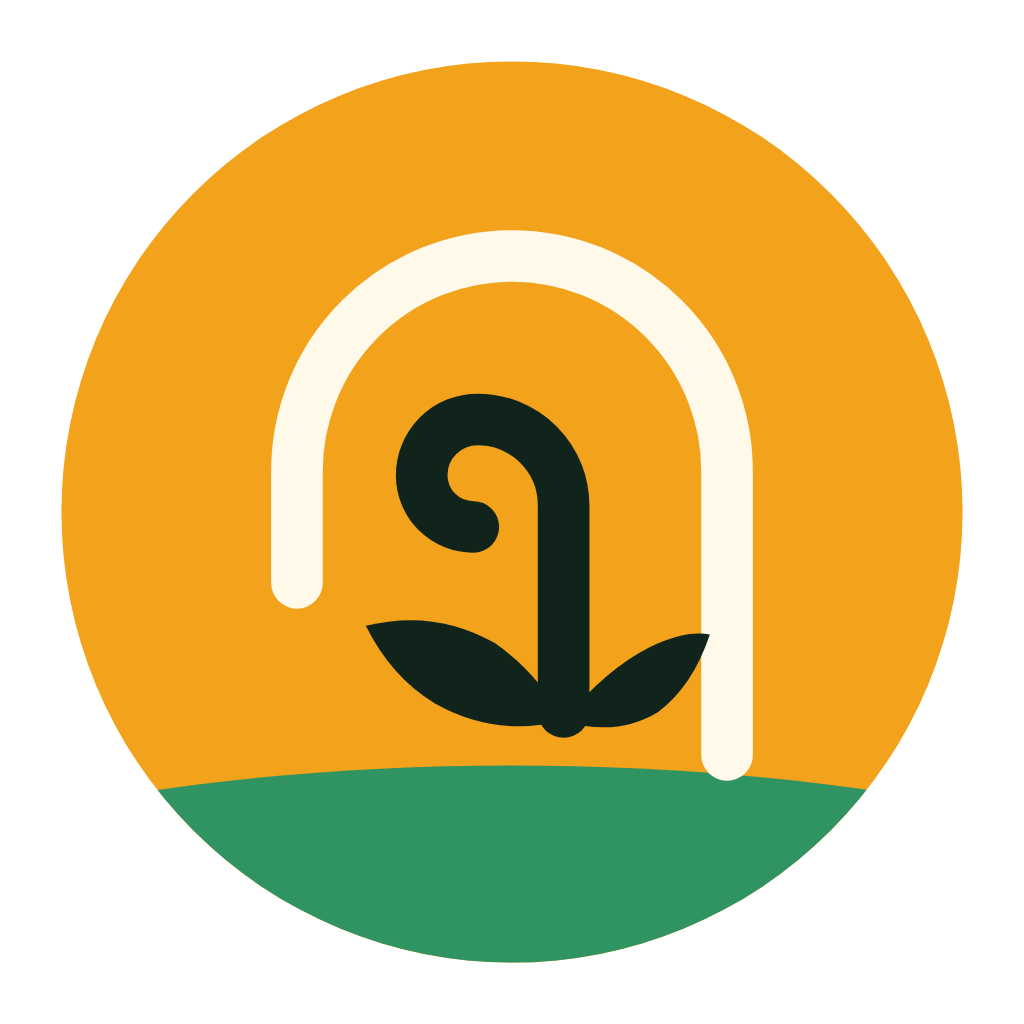
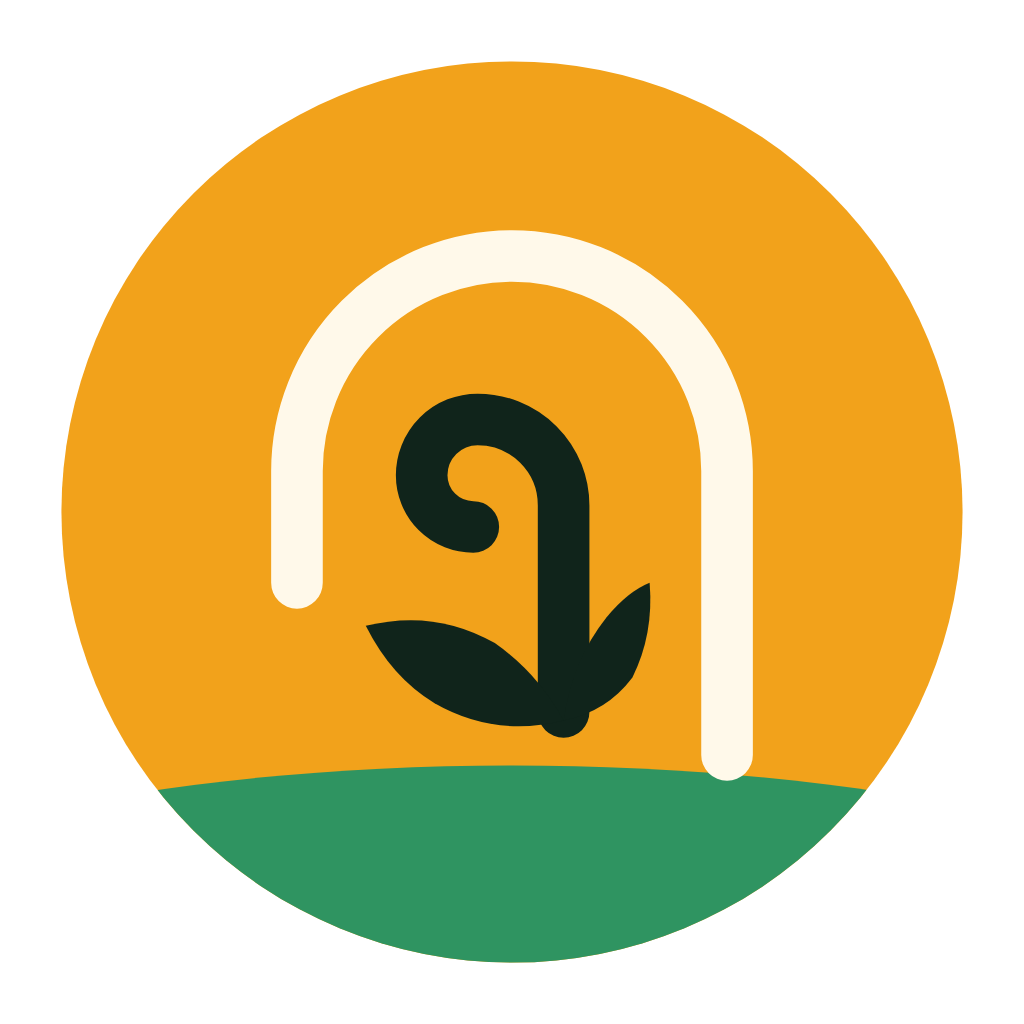
Pull the sprout's right leaf clear of the arch; call yi the monogram
The redrawn right leaf reached x 146, past the arch's inner edge at 144.
It now rises to a tip at x 132, one line width clear. Seal and exports
are regenerated.

Wording: Yidhan stays the product name and 'yi' is its monogram, in the
DECISIONS.md entry, the build script and the board. The entry also
records that YI Home uses a sans-serif 'yi' in its store screenshots
while its icon is a camera outline, and that this is not a trademark
clearance.

Claude-Session: https://claude.ai/code/session_01AdokjEejpZcjBYB6DnAyTV

Changed region(s): [[0.5625, 0.5625, 0.6875, 0.7188]]

diff --git a/images/brand/review/brand-board.html b/images/brand/review/brand-board.html
@@ -222,7 +222,7 @@ button.tg:focus-visible{outline:3px solid var(--marigold);outline-offset:2px}
     <div class="head">
       <span class="eyebrow">Round three · chosen: “yi”</span>
       <h2>An icon from the wordmark</h2>
-      <p>Three reviewers read the sprout as a gardening or wellness app. So the logo is now the wordmark, and the app icon comes from it. A lone i was ruled out: a dotted i on a tile is the standard "information" icon, and the name starts with Y. Each candidate keeps the marigold sun as a dot and uses a heavier cut of Fraunces, which helps at small sizes.</p>
+      <p>Three reviewers read the sprout as a gardening or wellness app. So the logo is now the wordmark, and the app icon is its monogram. Yidhan stays the product name; “yi” is the monogram. A lone i was ruled out: a dotted i on a tile is the standard "information" icon, and the name starts with Y. Each candidate keeps the marigold sun as a dot and uses a heavier cut of Fraunces, which helps at small sizes.</p>
     </div>
     <div class="lock light" style="min-height:150px"><svg viewBox="0 0 6284 2194" style="width:min(360px,80%);height:auto;--ink:#13261D" role="img" aria-label="yidhan wordmark"><use href="#wordmark"/></svg><svg viewBox="0 0 200 200" style="width:72px;height:72px;border-radius:16px"><use href="#yi_icon"/></svg></div>
     <div class="grid g3">

diff --git a/scripts/brand/brand.py b/scripts/brand/brand.py
@@ -25,7 +25,7 @@ word = lambda ink: f'<path fill="{ink}" d="{wm["d"]}"/><circle fill="{SUN}" cx="
 w('wordmark.svg', svg(vb, word(INK), 'Yidhan wordmark: Fraunces (SIL OFL) outlined, with a marigold sun as the dot on the i.'))
 w('wordmark-on-dark.svg', svg(vb, word(WARM), 'Yidhan wordmark for dark grounds.'))
 
-# App icon: "yi" from the wordmark. Stem centre measured in the 560/24 cut at 1463 (bbox 1199..1710).
+# App icon: the "yi" monogram, from the wordmark. Yidhan is the product name; "yi" is its monogram. Stem centre measured in the 560/24 cut at 1463 (bbox 1199..1710).
 def yi_letters(j, dot, i_shift, target_h, cy=100, cx=100):
     gy, gi = j['glyphs']
     st = gi['box'][2] - gi['box'][0]
@@ -41,7 +41,7 @@ def yi_letters(j, dot, i_shift, target_h, cy=100, cx=100):
             f'<circle fill="{SUN}" cx="{sun[0]:.1f}" cy="{sun[1]:.1f}" r="{r:.1f}"/></g>')
 tile = lambda rx=0: f'<rect width="200" height="200" rx="{rx}" fill="{TILE}"/>'
 w('app-icon.svg', svg('0 0 200 200', tile() + yi_letters(yi, 1.5, 0, 142, cy=95),
-  'App icon: "yi" on an evergreen tile, full bleed. Launchers apply their own mask.'))
+  'App icon: the "yi" monogram on an evergreen tile, full bleed. Launchers apply their own mask.'))
 w('android-foreground.svg', svg('0 0 200 200', yi_letters(yi, 1.5, 0, 100, cy=96),
   'Android adaptive icon foreground: letters inside the 72dp visible area. Background layer: ' + TILE + '.'))
 # Favicon: a separate drawing for 16-48 px. Heavier small-size cut, wider y-i gap, bigger dot.
@@ -53,7 +53,7 @@ w('favicon.svg', svg('0 0 200 200', tile(28) + yi_letters(yi16, 1.75, 110, 160, 
 ARCH = 'M150 166 V100 A50 50 0 0 0 50 100 V126'
 CURL = 'M112 156 V108 A20 20 0 0 0 92 88 A13 13 0 0 0 79 101 A12 12 0 0 0 91 113'
 LEAF_L = 'M112 158 Q 96 162 82 154 Q 72 148 66 136 Q 82 132 96 140 Q 106 147 112 158 Z'
-LEAF_R = 'M112 158 Q 122 146 132 141 Q 140 137 146 138 Q 142 150 134 156 Q 124 162 112 158 Z'
+LEAF_R = 'M112 158 Q 114 144 122 134 Q 127 128 132 126 Q 133 138 128 148 Q 122 156 112 158 Z'   # tip at x 132: one line clear of the arch's inner edge (144)
 def sprout(sun, leaf):
     return (f'<g stroke-linecap="round" stroke-linejoin="round"><path fill="none" stroke="{sun}" stroke-width="12" d="{ARCH}"/>'
             f'<path fill="none" stroke="{leaf}" stroke-width="12" d="{CURL}"/><path fill="{leaf}" d="{LEAF_L}"/><path fill="{leaf}" d="{LEAF_R}"/></g>')

diff --git a/DECISIONS.md b/DECISIONS.md
@@ -19,7 +19,7 @@ reasoning is sourced from the plans now in `docs/archive/`, not invented.
 
 ---
 
-## 2026-11-09 — New logo: a Fraunces wordmark with a sun on the i, and a "yi" app icon
+## 2026-11-09 — New logo: a Fraunces wordmark with a sun on the i, and a "yi" monogram as the app icon
 
 **Status:** Active
 
@@ -30,13 +30,17 @@ brightness, hide இ well enough that a reader who doesn't know Tamil sees a log
 than a letter, and work for a writing app.
 
 The logo is the wordmark: lowercase "yidhan" in Fraunces (SOFT 100, weight 440),
-outlined, with a marigold sun as the dot on the i, set on the i's optical centre. The app
-icon is "yi" from the same wordmark, cut heavier (weight 560, opsz 24), cream on an
-evergreen tile, with the same sun dot. The favicon is a separate drawing of that tile for
+outlined, with a marigold sun as the dot on the i, set on the i's optical centre. Yidhan
+stays the product name; "yi" is its monogram. The app icon is that monogram, taken from
+the wordmark and cut heavier (weight 560, opsz 24), cream on an evergreen tile
+(`#163026`), with the same sun dot. The favicon is a separate drawing of that tile for
 16 to 48 px (weight 620, opsz 9, a wider y-i gap and a bigger dot), used on light and dark
 tabs alike. A sprout under a sun arch, drawn on the shape of இ, stays as secondary artwork
 for the splash screen, empty states and the About page. That is where the Tamil Easter
-egg now lives. Sources, exports and the review board are in `images/brand/`. The app
+egg now lives. YI Home, a camera app, uses a sans-serif "yi" brand in its store
+screenshots, though its current icon is a camera outline. The serif letters, sun dot and
+evergreen tile keep the two apart; this is not a trademark clearance. Sources, exports and
+the review board are in `images/brand/`. The app
 palette is not decided here; the themes are a separate decision.
 
 **Rejected:** The sprout under the sun as the logo (two rounds). Three independent reviews
